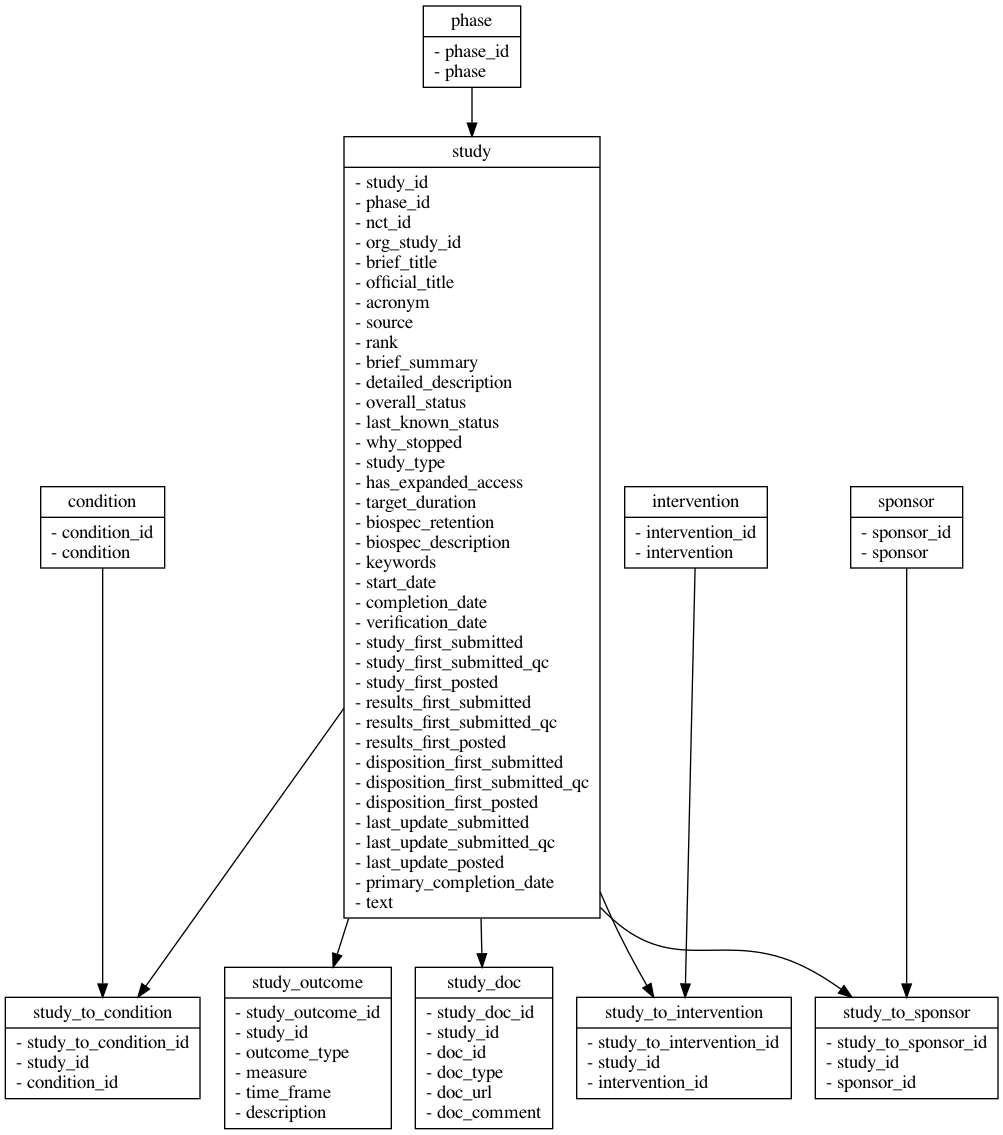
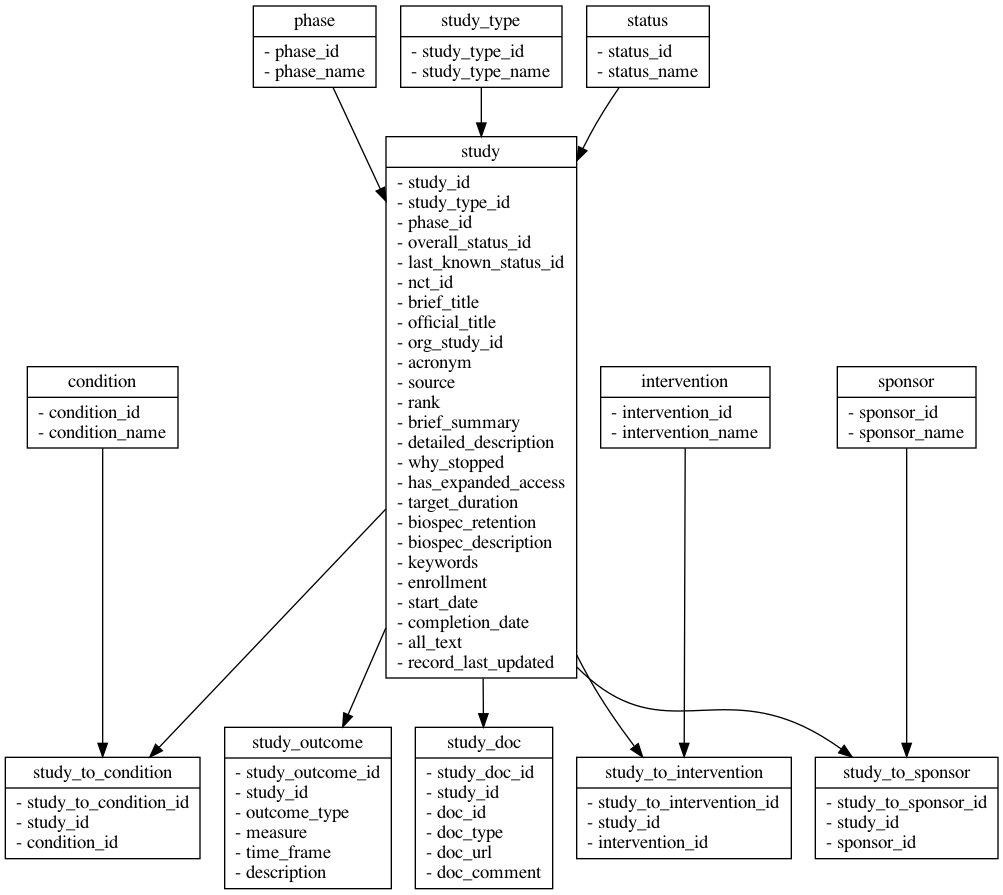
fixes to outcomes

diff --git a/scripts/ct.py b/scripts/ct.py
@@ -1,7 +1,6 @@
 from peewee import *
 
 database = PostgresqlDatabase('ct')
-# database = PostgresqlDatabase('ct', user='postgres', host='127.0.0.1')
 
 class UnknownField(object):
     def __init__(self, *_, **__): pass
@@ -11,76 +10,77 @@ class BaseModel(Model):
         database = database
 
 class Condition(BaseModel):
-    condition = CharField(null=True, unique=True)
     condition_id = AutoField()
+    condition_name = CharField(unique=True)
 
     class Meta:
         table_name = 'condition'
 
 class Intervention(BaseModel):
-    intervention = CharField(null=True, unique=True)
     intervention_id = AutoField()
+    intervention_name = CharField(unique=True)
 
     class Meta:
         table_name = 'intervention'
 
 class Phase(BaseModel):
-    phase = CharField(null=True, unique=True)
     phase_id = AutoField()
+    phase_name = CharField(unique=True)
 
     class Meta:
         table_name = 'phase'
 
 class Sponsor(BaseModel):
-    sponsor = CharField(null=True, unique=True)
     sponsor_id = AutoField()
+    sponsor_name = CharField(unique=True)
 
     class Meta:
         table_name = 'sponsor'
 
+class Status(BaseModel):
+    status_id = AutoField()
+    status_name = CharField(unique=True)
+
+    class Meta:
+        table_name = 'status'
+
+class StudyType(BaseModel):
+    study_type_id = AutoField()
+    study_type_name = CharField(unique=True)
+
+    class Meta:
+        table_name = 'study_type'
+
 class Study(BaseModel):
     acronym = TextField(null=True)
+    all_text = TextField(null=True)
     biospec_description = TextField(null=True)
     biospec_retention = TextField(null=True)
     brief_summary = TextField(null=True)
     brief_title = TextField(null=True)
     completion_date = DateField(null=True)
     detailed_description = TextField(null=True)
-    disposition_first_posted = DateField(null=True)
-    disposition_first_submitted = DateField(null=True)
-    disposition_first_submitted_qc = DateField(null=True)
+    enrollment = IntegerField(null=True)
     has_expanded_access = TextField(null=True)
     keywords = TextField(null=True)
-    last_known_status = TextField(null=True)
-    last_update_posted = DateField(null=True)
-    last_update_submitted = DateField(null=True)
-    last_update_submitted_qc = DateField(null=True)
-    nct_id = TextField(null=True)
+    last_known_status = ForeignKeyField(column_name='last_known_status_id', field='status_id', model=Status)
+    nct_id = CharField(unique=True)
     official_title = TextField(null=True)
     org_study_id = TextField(null=True)
-    overall_status = TextField(null=True)
+    overall_status = ForeignKeyField(backref='status_overall_status_set', column_name='overall_status_id', field='status_id', model=Status)
     phase = ForeignKeyField(column_name='phase_id', field='phase_id', model=Phase)
-    primary_completion_date = DateField(null=True)
     rank = TextField(null=True)
-    results_first_posted = DateField(null=True)
-    results_first_submitted = DateField(null=True)
-    results_first_submitted_qc = DateField(null=True)
+    record_last_updated = DateTimeField(constraints=[SQL("DEFAULT CURRENT_TIMESTAMP")], null=True)
     source = TextField(null=True)
     start_date = DateField(null=True)
-    study_first_posted = DateField(null=True)
-    study_first_submitted = DateField(null=True)
-    study_first_submitted_qc = DateField(null=True)
     study_id = AutoField()
-    study_type = TextField(null=True)
+    study_type = ForeignKeyField(column_name='study_type_id', field='study_type_id', model=StudyType)
     target_duration = TextField(null=True)
-    text = TextField(null=True)
-    verification_date = DateField(null=True)
     why_stopped = TextField(null=True)
 
     class Meta:
         table_name = 'study'
         indexes = (
-            ((), False),
             ((), False),
         )
 
@@ -97,8 +97,8 @@ class StudyDoc(BaseModel):
 
 class StudyOutcome(BaseModel):
     description = TextField(null=True)
-    measure = TextField(null=True)
-    outcome_type = CharField(null=True)
+    measure = TextField()
+    outcome_type = CharField()
     study = ForeignKeyField(column_name='study_id', field='study_id', model=Study)
     study_outcome_id = AutoField()
     time_frame = TextField(null=True)
